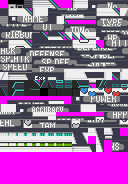
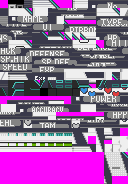
Ribbons display properly! Wow!

diff --git a/src/bw_summary_screen.c b/src/bw_summary_screen.c
@@ -115,7 +115,6 @@ enum BWSkillsPageState
 #define PSS_DATA_WINDOW_INFO_OT_OTID_ITEM 0
 #define PSS_DATA_WINDOW_INFO_MEMO 1
 #define PSS_DATA_WINDOW_INFO_DEX_NUMBER_NAME 2
-#define PSS_DATA_WINDOW_INFO_RIBBONS 3
 
 // Dynamic fields for the Pokémon Skills page
 #define PSS_DATA_WINDOW_SKILLS_RIBBON_COUNT 0 //ravetodo handle ribbons
@@ -299,7 +298,7 @@ static void PrintInfoPageText(void);
 static void Task_PrintInfoPage(u8);
 static void PrintMonOTNameID(void);
 static void BlitRibbons(void);
-static void BlitRibbonSingle(u8, u8, u16, u16, u8);
+static void BlitRibbonSingle(u8, u8, u8, u16, u16, u8);
 static void PrintMonDexNumberSpecies(void);
 static void PrintMonAbilityName(void);
 static void CreateMonItemSprite(void);
@@ -399,6 +398,8 @@ static const u8 sGrowthRates[NUM_GROWTH_RATES][12] = {
     [GROWTH_SLOW] = _("SLOW"),
     [GROWTH_FLUCTUATING] = _("FLUCTUATES")
 };
+
+static u8 lookup[256];
 
 
 /*
@@ -655,9 +656,9 @@ static const struct WindowTemplate sPageInfoTemplate[] =
         .bg = 0,
         .tilemapLeft = 7,
         .tilemapTop = 7,
-        .width = 12,
-        .height = 2,
-        .paletteNum = 6,
+        .width = 18,
+        .height = 7,
+        .paletteNum = 0xc,
         .baseBlock = 335,
     },
     [PSS_DATA_WINDOW_INFO_MEMO] = {
@@ -667,7 +668,7 @@ static const struct WindowTemplate sPageInfoTemplate[] =
         .width = 30,
         .height = 7,
         .paletteNum = 6,
-        .baseBlock = 407,
+        .baseBlock = 467,
     },
     [PSS_DATA_WINDOW_INFO_DEX_NUMBER_NAME] = {
         .bg = 0,
@@ -676,16 +677,7 @@ static const struct WindowTemplate sPageInfoTemplate[] =
         .width = 9,
         .height = 4,
         .paletteNum = 6,
-        .baseBlock = 815,
-    },
-    [PSS_DATA_WINDOW_INFO_RIBBONS] = {
-        .bg = 0,
-        .tilemapLeft = 7,
-        .tilemapTop = 9,
-        .width = 12,
-        .height = 4,
-        .paletteNum = 0xc,
-        .baseBlock = 359,
+        .baseBlock = 875,
     }
 };
 static const struct WindowTemplate sPageSkillsTemplate[] =
@@ -3875,16 +3867,18 @@ static void PrintMonOTNameID(void)
     u8 windowId;
     if (InBattleFactory() != TRUE && InSlateportBattleTent() != TRUE)
     {
-        u8 tSpaceSlash[] = _("   {FONT_SMALL_NARROWER}{COLOR_HIGHLIGHT_SHADOW 1 0 2}{ID} ");
+        u8 tFontColourRibbons[] = _("{COLOR_HIGHLIGHT_SHADOW 12 0 14}");
+        u8 tOTIDPre[] = _("   {FONT_SMALL_NARROWER}{ID} ");
         windowId = AddWindowFromTemplateList(sPageInfoTemplate, PSS_DATA_WINDOW_INFO_OT_OTID_ITEM, FALSE);
-        StringCopy(gStringVar1, sMonSummaryScreen->summary.OTName);
+        StringCopy(gStringVar1, tFontColourRibbons);
+        StringAppend(gStringVar1, sMonSummaryScreen->summary.OTName);
         ConvertIntToDecimalStringN(gStringVar2, (u16)sMonSummaryScreen->summary.OTID, STR_CONV_MODE_LEADING_ZEROS, 5);
-        StringAppend(gStringVar1, tSpaceSlash);
+        StringAppend(gStringVar1, tOTIDPre);
         StringAppend(gStringVar1, gStringVar2);
-        if (sMonSummaryScreen->summary.OTGender == 0)
-            PrintTextOnWindow(windowId, gStringVar1, 12, 4, 0, 5);
+        if (sMonSummaryScreen->summary.OTGender == GENDER_MALE)
+            PrintTextOnWindow(windowId, gStringVar1, 12, 4, 0, 0);
         else
-            PrintTextOnWindow(windowId, gStringVar1, 12, 4, 0, 6);
+            PrintTextOnWindow(windowId, gStringVar1, 12, 4, 0, 0);
     }
     else
     {
@@ -3894,60 +3888,95 @@ static void PrintMonOTNameID(void)
     BlitRibbons();
 }
 
+#define RIBX(x) (13 * (x / 4)) + (2 * (x % 4))
+#define RIBY(y) (5 * (y % 4))
+
+#define RIBBON_CONTEST_COLOUR_ID 7
+#define TILESIZE 8*8/2
+
 static void BlitRibbons(void)
 {    
     LoadPalette(sSummaryScreen_Ribbons_Pal, PLTT_ID(0xc), PLTT_SIZE_4BPP);
     u8 windowId = AddWindowFromTemplateList(sPageInfoTemplate, PSS_DATA_WINDOW_INFO_OT_OTID_ITEM, FALSE);
-    FillWindowPixelBuffer(sMonSummaryScreen->windowIds[PSS_DATA_WINDOW_INFO_RIBBONS], 0);
+    //FillWindowPixelBuffer(sMonSummaryScreen->windowIds[PSS_DATA_WINDOW_INFO_OT_OTID_ITEM], 0);
     CopyWindowToVram(windowId, COPYWIN_FULL);
     u32 ribbons = GetMonData(&sMonSummaryScreen->currentMon, MON_DATA_RIBBONS);
     u32 numRibbonsPrinted = 0;
 
-    // TODO: Make all unobtained ribbons show in grey
+    // Uncomment this to show all ribbons
+    //ribbons = ((u16)(-1));
 
-    // Champion Ribbon
-    numRibbonsPrinted++;
-    BlitRibbonSingle(sRibbonGfxData[CHAMPION_RIBBON].tileNumOffset, CONTEST_CATEGORIES_COUNT, 0, 0, ribbons & 0x1);
+    // Store champion ribbon if obtained
+    u8 champRibbon = (ribbons & 0b1);
     ribbons >>= 1;
     
-    // Contest RIbbons
+    // Contest Ribbons
     for (u8 contest = 0; contest < CONTEST_CATEGORIES_COUNT; contest++)
     {
-        for (u8 c = 0; c < (ribbons & 0b111); c++)
+        // Initialise lookup table
+        if (ribbons & 0b111)
         {
-            DebugPrintf("Printing %d of %d [%d]", c+1, ribbons & 0b111, contest);
-            BlitRibbonSingle(sRibbonGfxData[1 + (contest * 4) + c].tileNumOffset, contest, (8*numRibbonsPrinted), 8 * (numRibbonsPrinted % 2), 1);
+            for (int i = 0; i < 256; ++i) {
+                u8 upper_pixel = (i >> 4) & 0x0F;
+                u8 lower_pixel = i & 0x0F;
+
+                // Replace pixels if they match the target color
+                if (upper_pixel == RIBBON_CONTEST_COLOUR_ID) {
+                    upper_pixel += contest;
+                }
+                if (lower_pixel == RIBBON_CONTEST_COLOUR_ID) {
+                    lower_pixel += contest;
+                }
+
+                // Store the modified byte in the lookup table
+                lookup[i] = (upper_pixel << 4) | (lower_pixel & 0x0F);
+            }
+        }
+
+        for (u8 c = 0; c <= CONTEST_RANK_MASTER; c++)
+        {
+            BlitRibbonSingle(windowId, sRibbonGfxData[1 + (contest * 4) + c].tileNumOffset, contest, RIBX(numRibbonsPrinted), RIBY(numRibbonsPrinted), c < (ribbons & 0b111));
             numRibbonsPrinted++;
         }
         ribbons >>= 3;
     }
 
+    // Now print champion ribbon, if obtained
+    if (champRibbon)
+    {
+        BlitRibbonSingle(windowId, sRibbonGfxData[CHAMPION_RIBBON].tileNumOffset, CONTEST_CATEGORIES_COUNT, RIBX(numRibbonsPrinted), RIBY(numRibbonsPrinted), ribbons & 0x1);
+        numRibbonsPrinted++;
+    }
+
     // Special Ribbons
     u8 specialRibbonNum = 0;
-    while (ribbons != 0)
+    while (ribbons)
     {
-        DebugPrintf("Printing %x", specialRibbonNum);
         if (ribbons & 0b1)
         {
-            BlitRibbonSingle(sRibbonGfxData[WINNING_RIBBON + specialRibbonNum].tileNumOffset, CONTEST_CATEGORIES_COUNT, (8*numRibbonsPrinted), numRibbonsPrinted, 1);
-            numRibbonsPrinted++;            
+            BlitRibbonSingle(windowId, sRibbonGfxData[WINNING_RIBBON + specialRibbonNum].tileNumOffset, CONTEST_CATEGORIES_COUNT, RIBX(numRibbonsPrinted), RIBY(numRibbonsPrinted), 1);
+            numRibbonsPrinted++;
         }
+        
         specialRibbonNum++;
         ribbons >>= 1;
     }
+    CopyWindowToVram(windowId, COPYWIN_FULL);
 }
-
-#define RIBBON_CONTEST_COLOUR_ID 7
-#define TILESIZE 8*8/2
 
 /*
 ribbonTileOffset = how far down the png is it
 ribbonTytpe = Cool, Beauty, Smart etc. (CONTEST_CATEGORY_COOL onwards)
 */
-static void BlitRibbonSingle(u8 ribbonTileOffset, u8 ribbonType, u16 x, u16 y, u8 obtained)
+static void BlitRibbonSingle(u8 windowId, u8 ribbonTileOffset, u8 ribbonType, u16 x, u16 y, u8 obtained)
 {
     u8 palOffset = 0;
     u8 ribbonPixels[TILESIZE*4]; 
+
+    if (!obtained)
+    {
+        return;
+    }
 
     if (ribbonType < CONTEST_CATEGORIES_COUNT)
         palOffset = ribbonType;
@@ -3957,62 +3986,14 @@ static void BlitRibbonSingle(u8 ribbonTileOffset, u8 ribbonType, u16 x, u16 y, u
         u16 offset = (curTile * TILESIZE);
         for (u16 curPixelIndex = 0; curPixelIndex < TILESIZE; curPixelIndex++)
         {
-            u16 srcIndex = curPixelIndex + (ribbonTileOffset * TILESIZE * 2);
-            if (curTile % 2 == 0)
-                ribbonPixels[curPixelIndex + offset] = sSummaryScreen_Ribbons_Gfx[srcIndex + ((curTile / 2) * TILESIZE) ];
-            else // Mirror the sprite
-            {
-                ribbonPixels[curPixelIndex + offset] = sSummaryScreen_Ribbons_Gfx[(3 - (srcIndex % 4) + ((srcIndex/4)*4)) + ((curTile / 2) * TILESIZE)];
-                ribbonPixels[curPixelIndex + offset] = (
-                   (0b00001111 & ribbonPixels[curPixelIndex + offset]) << 4 |
-                   (0b11110000 & ribbonPixels[curPixelIndex + offset]) >> 4
-                );
-            }
-
-            if (!obtained)
-            {
-                for (u8 subPixelI = 0; subPixelI < 2; subPixelI++)
-                {
-                    u8 pix = (ribbonPixels[curPixelIndex + offset] & (0b00001111 << (subPixelI * 4))) >> (subPixelI * 4);
-                    switch (pix)
-                    {
-                        case 1:
-                        case 2:
-                            pix = 1;
-                            break;
-                        case 3:
-                        case 6:
-                        case 7:
-                        case 8:
-                        case 9:
-                        case 10:
-                        case 11:
-                            pix = 0;
-                            break;
-                        case 4:
-                            pix = 13;
-                            break;
-                        case 5:
-                            pix = 14;
-                            break;
-                    }
-                    ribbonPixels[curPixelIndex + offset] = (pix << (subPixelI * 4)) | (ribbonPixels[curPixelIndex + offset] & (0b00001111 << ((1-subPixelI) * 4)));
-                }
-            }
-            else
-            {
-                if ((ribbonPixels[curPixelIndex + offset] & 0b00001111) == RIBBON_CONTEST_COLOUR_ID)
-                    ribbonPixels[curPixelIndex + offset] += ribbonType;
-
-                if ((ribbonPixels[curPixelIndex + offset] & 0b11110000) == RIBBON_CONTEST_COLOUR_ID << 4)
-                    ribbonPixels[curPixelIndex + offset] += ribbonType << 4;
-            }
-
+            u16 srcIndex = curPixelIndex + (ribbonTileOffset * TILESIZE * 4);
+            ribbonPixels[curPixelIndex + offset] = sSummaryScreen_Ribbons_Gfx[srcIndex + ((curTile) * TILESIZE)];
+            if (ribbonType < CONTEST_CATEGORIES_COUNT)
+                ribbonPixels[curPixelIndex + offset] = lookup[ribbonPixels[curPixelIndex + offset]];
         }
     }
 
     u8 tmp[] = _("x");
-    u8 windowId = AddWindowFromTemplateList(sPageInfoTemplate, PSS_DATA_WINDOW_INFO_RIBBONS, FALSE);
 
     //TODO: Fix OT & ID on same line, then make ribbon sprite blit properly
     //TODO: Put the new ribbon pixels somewhere (maybe blit them, for example)
@@ -4020,12 +4001,11 @@ static void BlitRibbonSingle(u8 ribbonTileOffset, u8 ribbonType, u16 x, u16 y, u
     BlitBitmapToWindow(
         windowId,
         ribbonPixels,
-        x+8,
-        y+4,
+        x,
+        y+16,
         16,
         16
     );
-    CopyWindowToVram(windowId, COPYWIN_FULL);
 }
 
 static void PrintMonAbilityName(void)
